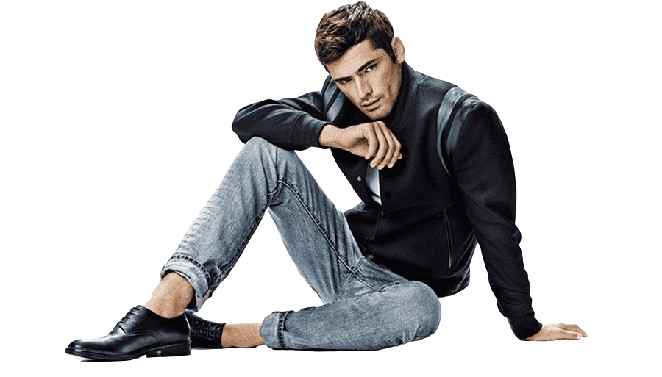
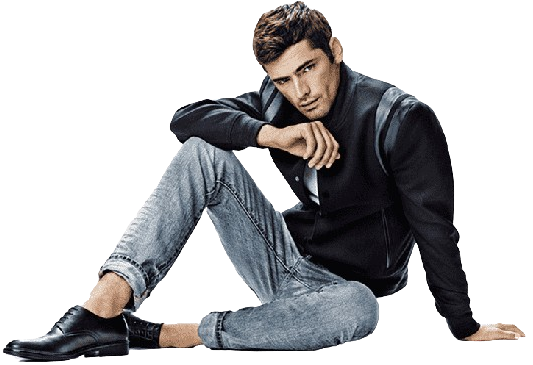
Hero Responsivness Added

diff --git a/frontend/src/Components/Hero/Hero.css b/frontend/src/Components/Hero/Hero.css
@@ -49,7 +49,7 @@ a {
 }
 
 .hero-right{
-    width: 70vw;
+    width: 60vw;
     height: 67vh;
     flex: 1;
     display:flex ;
@@ -58,7 +58,7 @@ a {
 }
 
 .hero-right img{
-    height: 110%;
+    height: 100%;
 }
 
 @media(max-width:1280px){
@@ -76,7 +76,7 @@ a {
         font-size: 18px;
     }
     .hero-right img{
-        width: 850px;
+        height: 76%;
     }
 }
 
@@ -95,13 +95,18 @@ a {
         font-size: 18px;
     }
     .hero-right img{
-        width: 700px;
+        height: 58%;
     }
 }
 
 @media(max-width:800px){
+    .hero{
+        flex-direction: column-reverse;
+    }
     .hero-left{
-        padding-left:50px;
+        justify-content: center;
+        align-items: center;
+        padding-left:0px;
     }
     .hero-left p{
         font-size: 60px;
@@ -113,14 +118,20 @@ a {
         margin-top: 20px;
         font-size: 15px;
     }
+    .hero-right{
+        justify-content: center;
+        align-items: center;
+        margin: -50px;
+        padding-left: 20%;
+    }
     .hero-right img{
-        width: 500px;
+        height: 60%;
     }
 }
 
 @media(max-width:500px){
     .hero-left{
-        padding-left:80px;
+        padding-left:0px;
     }
     .hero-left p{
         font-size: 90px;

diff --git a/frontend/src/Components/NewCollections/NewCollections.css b/frontend/src/Components/NewCollections/NewCollections.css
@@ -25,7 +25,7 @@
     display: grid;
     grid-template-columns: 1fr 1fr 1fr 1fr;
     margin-top: 50px;
-    gap: 80px;
+    gap: 60px;
 }
 
 @media(max-width:1280px){

diff --git a/frontend/src/Components/Popular/Popular.css b/frontend/src/Components/Popular/Popular.css
@@ -23,7 +23,7 @@
 .popular-item{
     margin-top: 50px;
     display: flex;
-    gap: 80px;
+    gap: 60px;
 }
 
 @media(max-width:1280px){
